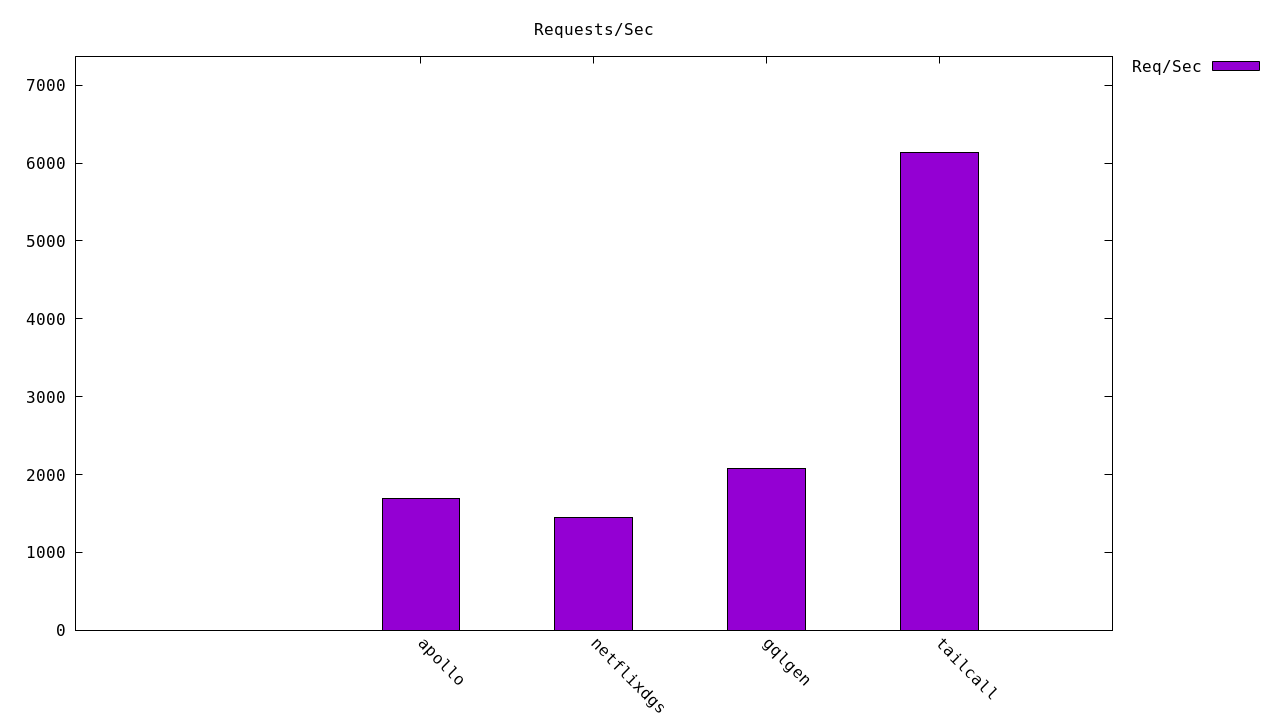
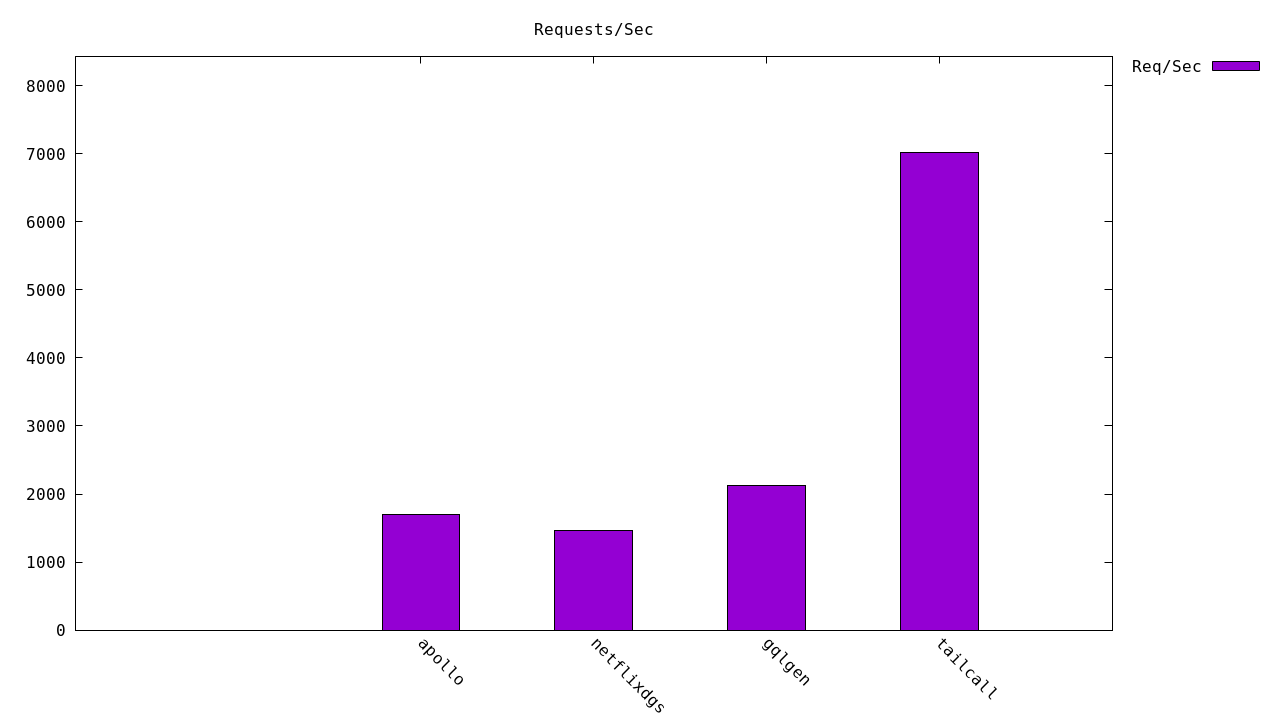
chore: update tailcall to v0.15.1 (#19)
* chore: update tailcall to v0.15.1

* chore: update nginx for consistency

* Update performance results in README.md

* chore: update port

* Update performance results in README.md

* Update run.sh

* Update performance results in README.md

---------

diff --git a/README.md b/README.md
@@ -45,10 +45,10 @@ Get started with the benchmarks:
 
 | Server | Requests/sec | Latency (ms) |
 |--------:|--------------:|--------------:|
-| [Tailcall] | `6,141.84` | `16.16` |
-| [Gqlgen] | `2,077.02` | `49.61` |
-| [Apollo GraphQL] | `1,687.59` | `59.22` |
-| [Netflix DGS] | `1,452.34` | `71.90` |
+| [Tailcall] | `7,022.67` | `14.17` |
+| [Gqlgen] | `2,129.13` | `48.44` |
+| [Apollo GraphQL] | `1,701.20` | `58.77` |
+| [Netflix DGS] | `1,462.07` | `87.35` |
 
 <!-- PERFORMANCE_RESULTS_END -->
 
